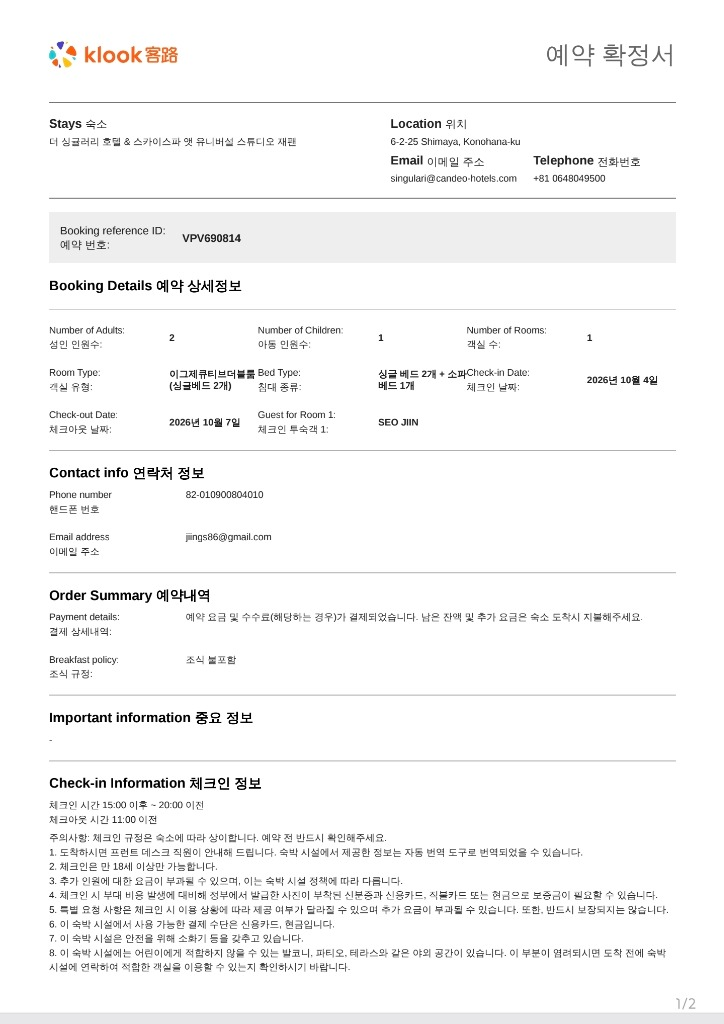
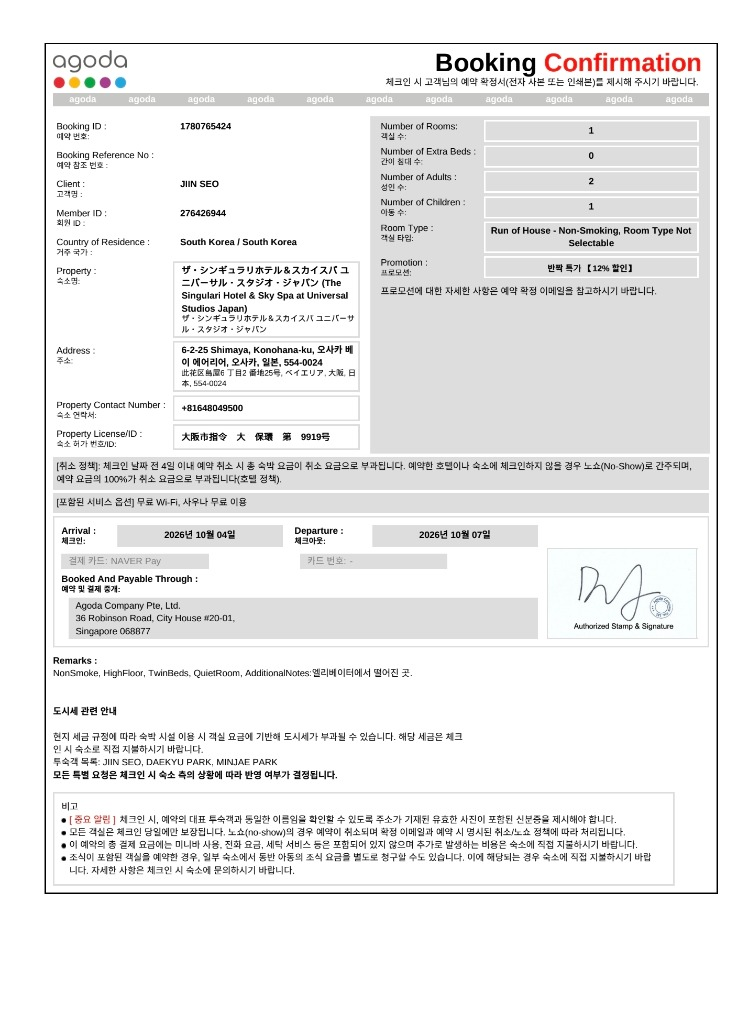
feat: Update Singulari hotel voucher to new Agoda booking confirmation

diff --git a/src/data/itineraryData.ts b/src/data/itineraryData.ts
@@ -507,16 +507,16 @@ export const ITINERARY_DATA: DayItinerary[] = [
         voucher: {
           id: "voucher-singulari-hotel",
           title: "더 싱귤러리 호텔 & 스카이스파 예약 확정서",
-          subtitle: "Klook 예약 번호: VPV690814 (3박 연박)",
-          bookingNo: "VPV690814",
-          travelerName: "체크인 투숙객: SEO JIIN (성인 2명 + 아동 1명)",
+          subtitle: "Agoda 예약 번호: 1780765424 (3박 연박)",
+          bookingNo: "1780765424",
+          travelerName: "투숙객: JIIN SEO / DAEKYU PARK / MINJAE PARK",
           date: "2026.10.04(일) ~ 2026.10.07(수) [3박]",
-          time: "체크인 15:00~20:00 / 체크아웃 11:00",
-          location: "6-2-25 Shimaya, Konohana-ku, Osaka (+81 0648049500)",
+          time: "체크인 15:00 이후 / 체크아웃 11:00 이전",
+          location: "6-2-25 Shimaya, Konohana-ku, Osaka (+81 6 4804 9500)",
           image: "/images/vouchers/singulari_hotel_booking.jpg",
-          badge: "Klook 예약 확정서",
+          badge: "Agoda 공식 예약 확정서",
           usageGuide: "호텔 프런트 데스크에서 여권과 함께 이 예약 확정서 화면을 보여주세요.",
-          note: "• 객실: 이그제큐티브 더블룸 (싱글베드 2개 + 소파베드 1개)\n• 조식 불포함 / 14층 스카이스파 대욕장 온천 무료 이용\n• 연락처: singulari@candeo-hotels.com / 010-9008-0410"
+          note: "• 객실: Run of House (금연실) / 성인 2명 + 아동 1명 (총 3명)\n• 무료 Wi-Fi 및 14층 스카이스파 사우나/대욕장 온천 무료 이용\n• 요청사항: 고층, 트윈베드, 조용한 방 (엘리베이터에서 떨어진 곳)"
         }
       },
       {

diff --git a/public/sw.js b/public/sw.js
@@ -1,4 +1,4 @@
-const CACHE_NAME = 'osaka-travel-v12';
+const CACHE_NAME = 'osaka-travel-v13';
 const STATIC_ASSETS = [
   '/',
   '/index.html',
